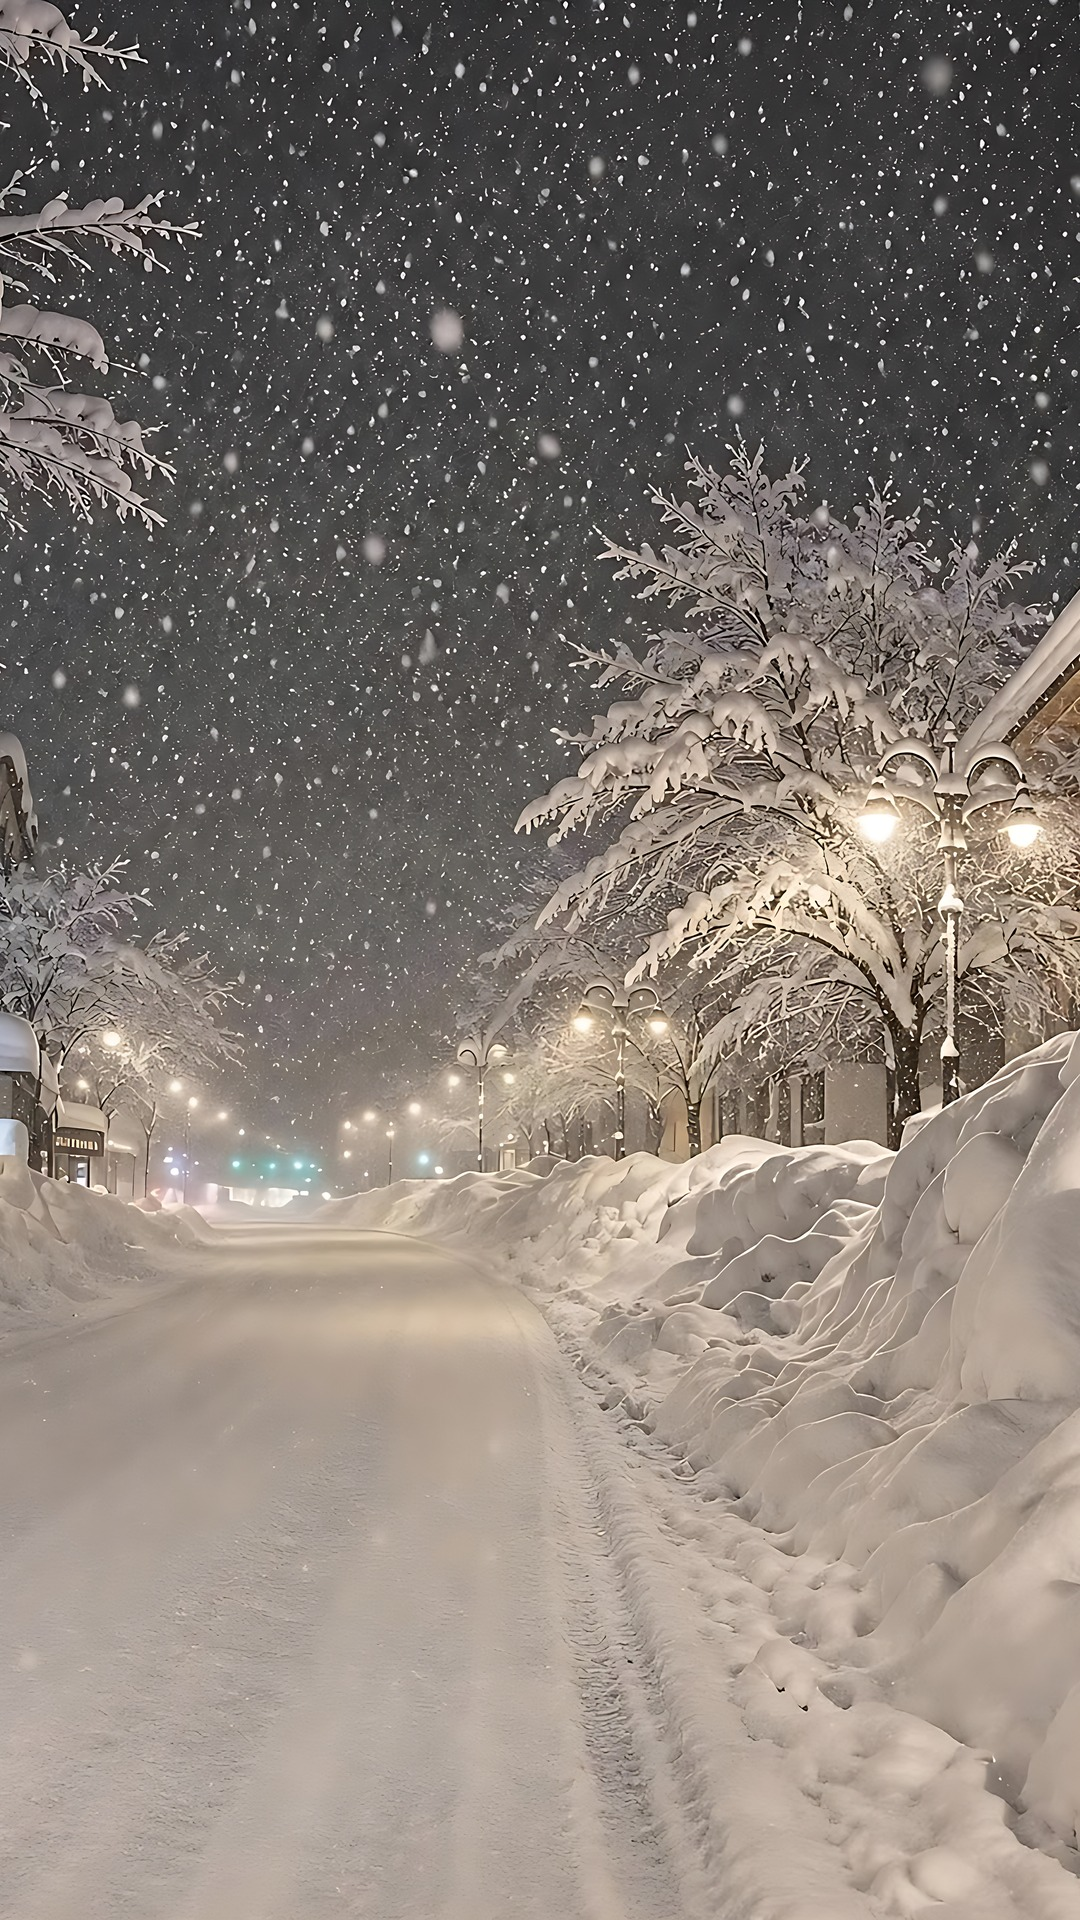
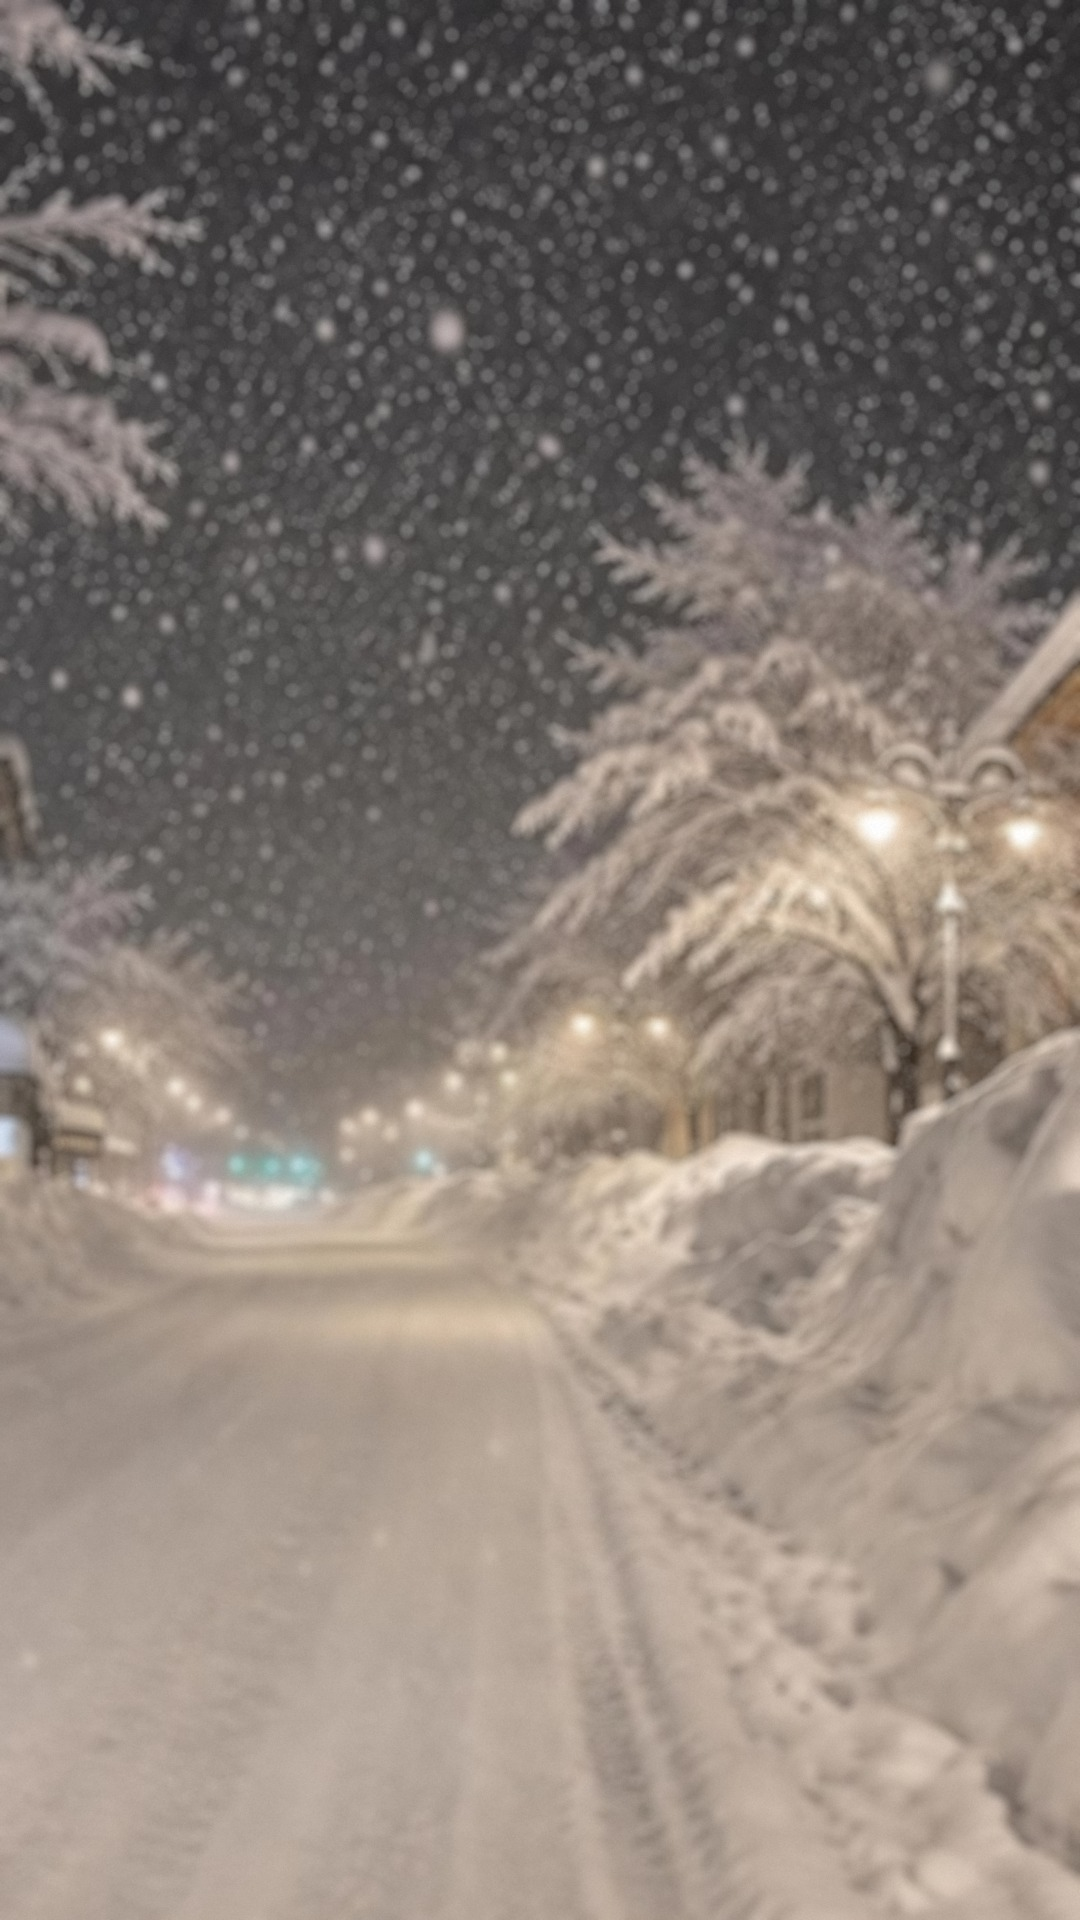
Luxus-Hintergründe: echtes Bokeh statt KI-Upscaling; Bekannte Personen: durchgehend ein Luxus-Hintergrund
Claude-Session: https://claude.ai/code/session_01MyGo4anV26G9k8usyU6DK6

diff --git a/index.html b/index.html
@@ -309,15 +309,15 @@ const SERIES = {
     titles: [L('So würde ich mich anziehen', 'How I would dress')],
     tops: [[['outer_w'], 2], [['outer_w', 'knit'], 2], [['outer_l', 'knit'], 2], [['knit'], 2], [['knit', 'shirt'], 2], [['shirt'], 1]],
     extras: [['ws', 4], ['w', 3], ['s', 1]], white: 0, dark: true, tags: ['#jamesbond', '#gentleman'] },
-  starboy: { label: 'Starboy', ex: 'Outfits I need for fall / winter', intro: ['starboy_fall', 'starboy_winter'], bg: 'intro_navy',
+  starboy: { label: 'Starboy', ex: 'Outfits I need for fall / winter', intro: ['starboy_fall', 'starboy_winter'], lux: true, luxPool: 'all',
     titles: { starboy_fall: L('Starboy-Outfits für den Herbst', 'Starboy outfits I need for fall'), starboy_winter: L('Starboy-Outfits für den Winter', 'Starboy outfits I need for winter') },
     tops: [[['knit'], 3], [['knit', 'shirt'], 2], [['hoodie'], 1.5], [['shirt'], 1], [['sweat'], 1]],
     extras: [['ws', 3], ['w', 2], ['s', 2], ['hs', 1]], white: 0.2, tags: ['#starboy', '#outfitideas'] },
-  howdress: { label: 'How I would dress', ex: 'this winter · 4 Intro-Bilder', intro: ['hw_elevator', 'hw_snow', 'hw_bath', 'hw_night'], fromIntro: true,
+  howdress: { label: 'How I would dress', ex: 'this winter · 4 Intro-Bilder', intro: ['hw_elevator', 'hw_snow', 'hw_bath', 'hw_night'], lux: true, luxPool: 'winter',
     titles: [L('So würde ich mich diesen Winter anziehen', 'How I would dress this winter')],
     tops: [[['outer_w'], 2.5], [['outer_w', 'knit'], 2.5], [['knit'], 3], [['knit', 'shirt'], 1.5], [['outer_l', 'knit'], 1.5], [['vest', 'knit'], 1]],
     extras: [['ws', 3], ['w', 3], ['hw', 1.5], ['s', 1]], white: 0.15, tags: ['#winteroutfit', '#howiwoulddress'] },
-  leo: { label: 'Perfect Winter Closet', ex: 'Leo · The perfect winter closet', intro: ['leo'], fromIntro: true, quietish: true,
+  leo: { label: 'Perfect Winter Closet', ex: 'Leo · The perfect winter closet', intro: ['leo'], lux: true, luxPool: 'winter', quietish: true,
     titles: [L('Der perfekte Winter-Kleiderschrank', 'The perfect winter closet')],
     tops: [[['outer_w', 'knit'], 3], [['outer_w'], 2], [['knit'], 3], [['knit', 'shirt'], 2], [['outer_l', 'knit'], 1.5]],
     extras: [['ws', 3], ['w', 3], ['hw', 1], ['s', 1]], white: 0.1, tags: ['#winteroutfit', '#oldmoneystyle'] },
@@ -345,11 +345,11 @@ const SERIES = {
     titles: [L('Streetwear vs. Grisch', 'streetwear vs grisch')],
     tops: [[['knit'], 3], [['outer_w', 'knit'], 2.5], [['knit', 'shirt'], 2], [['outer_l', 'knit'], 1.5], [['polo'], 1]],
     extras: [['ws', 3], ['w', 3], ['hw', 1], ['s', 1]], white: 0, tags: ['#grisch', '#oldmoneystyle'] },
-  autumnyou: { label: 'Autumn Fits For You', ex: 'Intro · Navy', intro: ['autumnyou'], bg: 'intro_autumn', quietish: true,
+  autumnyou: { label: 'Autumn Fits For You', ex: 'Intro · Navy', intro: ['autumnyou'], lux: true, luxPool: 'all', quietish: true,
     titles: [L('Herbst-Outfits für dich', 'autumn fits for you')],
     tops: [[['outer_l'], 2], [['outer_l', 'knit'], 2.5], [['knit'], 3], [['knit', 'shirt'], 2.5], [['vest', 'knit'], 1], [['shirt'], 1]],
     extras: [['ws', 3], ['w', 3], ['s', 1.5], ['', 1]], white: 0.25, tags: ['#falloutfit', '#autumnfits'] },
-  winteryou: { label: 'Winter Fits For You', ex: 'archive edition · Schnee', intro: ['winteryou'], fromIntro: true, avoid: ['black', 'charcoal', 'navy'], quietish: true,
+  winteryou: { label: 'Winter Fits For You', ex: 'archive edition · Schnee', intro: ['winteryou'], lux: true, luxPool: 'winter', avoid: ['black', 'charcoal', 'navy'], quietish: true,
     titles: [L('Winter-Outfits für dich', 'winter fits for you')],
     tops: [[['knit'], 3], [['outer_w', 'knit'], 2], [['knit', 'shirt'], 2], [['outer_w'], 1], [['hoodie'], 1]],
     extras: [['ws', 3], ['w', 3], ['hw', 1.5], ['s', 1]], white: 0.2, tags: ['#winteroutfit', '#archivefashion'] },
@@ -357,7 +357,7 @@ const SERIES = {
     titles: [L('Winter-Outfits', 'winter fits')],
     tops: [[['outer_w'], 3], [['outer_w', 'knit'], 3], [['knit'], 2.5], [['knit', 'shirt'], 2], [['outer_l', 'knit'], 1.5], [['vest', 'knit'], 1]],
     extras: [['ws', 3], ['w', 3], ['hw', 2], ['s', 1]], white: 0.2, tags: ['#winteroutfit', '#winterfits'] },
-  niche: { label: 'Niche Outfits', ex: 'Intro · Dunkelgrün', intro: ['niche'], bg: 'intro_niche', quietish: true,
+  niche: { label: 'Niche Outfits', ex: 'Intro · Dunkelgrün', intro: ['niche'], lux: true, luxPool: 'all', quietish: true,
     titles: [L('Niche Outfits', 'niche outfits')],
     tops: [[['knit'], 3], [['knit', 'shirt'], 2.5], [['outer_l', 'knit'], 2], [['shirt'], 1.5], [['polo'], 1], [['outer_w', 'knit'], 1]],
     extras: [['ws', 3], ['w', 2.5], ['s', 2]], white: 0.3, tags: ['#nicheoutfits', '#oldmoneystyle'] },
@@ -463,7 +463,16 @@ function planPost(series, n, lang) {
   const title = introKey && !Array.isArray(cfg.titles) ? cfg.titles[introKey] : pick(cfg.titles), cols = outfits.flatMap(o => [o.items.outer.color, o.items.inner && o.items.inner.color, o.items.pants.color]).filter(Boolean);
   const bgOK = k => cols.filter(c => BGS[k].avoid.includes(c)).length <= cols.length * .2;
   let bg = null, bgs = null;
-  if (cfg.lux) {
+  if (GROUPS.famous.ids.includes(series)) {
+    // Bekannte Personen: nach dem Intro durchgehend EIN Luxus-Hintergrund (nicht das Intro-Foto verschwommen)
+    const winter = cfg.luxPool !== 'all';
+    const pool = Object.keys(LUX).filter(k => !LUX[k].hidden && (!winter || LUX[k].winter));
+    const tones = outfits.map(o => { const l = [o.items.outer, o.items.inner, o.items.pants].filter(Boolean).map(p => LUMC[p.color] ?? .5); return l.reduce((x, y) => x + y, 0) / l.length; });
+    const t = tones.reduce((x, y) => x + y, 0) / Math.max(1, tones.length);
+    // dunkle Outfits → helle Bilder, helle Outfits → dunklere Bilder (mit etwas Zufall)
+    const key = pool.map(k => [k, (t < .45 ? -LUX[k].lum : LUX[k].lum) + (rnd() - .5) * 60]).sort((a, b) => a[1] - b[1])[0][0];
+    bgs = outfits.map(() => 'lux:' + key);
+  } else if (cfg.lux) {
     // jede Slide ein anderes Luxus-Bild; dunkle Outfits bekommen die hellsten Bilder
     const pool = Object.keys(LUX).filter(k => !LUX[k].hidden && (cfg.luxPool !== 'winter' || LUX[k].winter));
     // die neuen Winternacht-Bilder zuerst verwenden, dann die übrigen

diff --git a/README.md b/README.md
@@ -33,4 +33,6 @@ Winter-Formate mit Intro (Winter Fits Rot, Bateman, Wolf of Wall Street, James B
 
 ## Auflösung
 
-Alle Hintergründe (`bg/`) und `assets/end_london.jpg` liegen in echtem 9:16-4K (2160×3840), per KI-Upscaling (Real-ESRGAN realesr-general-x4v3) aus den Originalen erzeugt – nicht im Browser hochgezogen. Die Intros „Winter Fits (Rot)“, „Chainsaw“ und „Wolf“ wurden ebenfalls nachgeschärft. Export als JPEG mit Qualität 97 %. Neue Hintergründe immer mindestens 2160×3840 anlegen.
+Die Luxus-Hintergründe (`bg/lux_*`) und `assets/end_london.jpg` sind 9:16-4K (2160×3840) mit echter, weicher Objektiv-Unschärfe (Bokeh, in linearem Licht) plus feinem Korn – kein KI-Upscaling mehr (das hat die Bilder „verschmiert“). Skript: Original → auf 3840 px Höhe, mittig 2160 px breit, Disk-Blur Radius 14 px, Korn. Neue Hintergründe genauso anlegen.
+
+Bekannte Personen (Wolf, Bond, Bateman, Winter Fits Rot, Leo, Starboy, How I would dress, Autumn/Winter Fits For You, Niche): erste Folie = Intro, danach durchgehend **ein** Luxus-Hintergrund für alle Outfit-Folien (Helligkeit passend zu den Outfits), Abschluss mit London.
